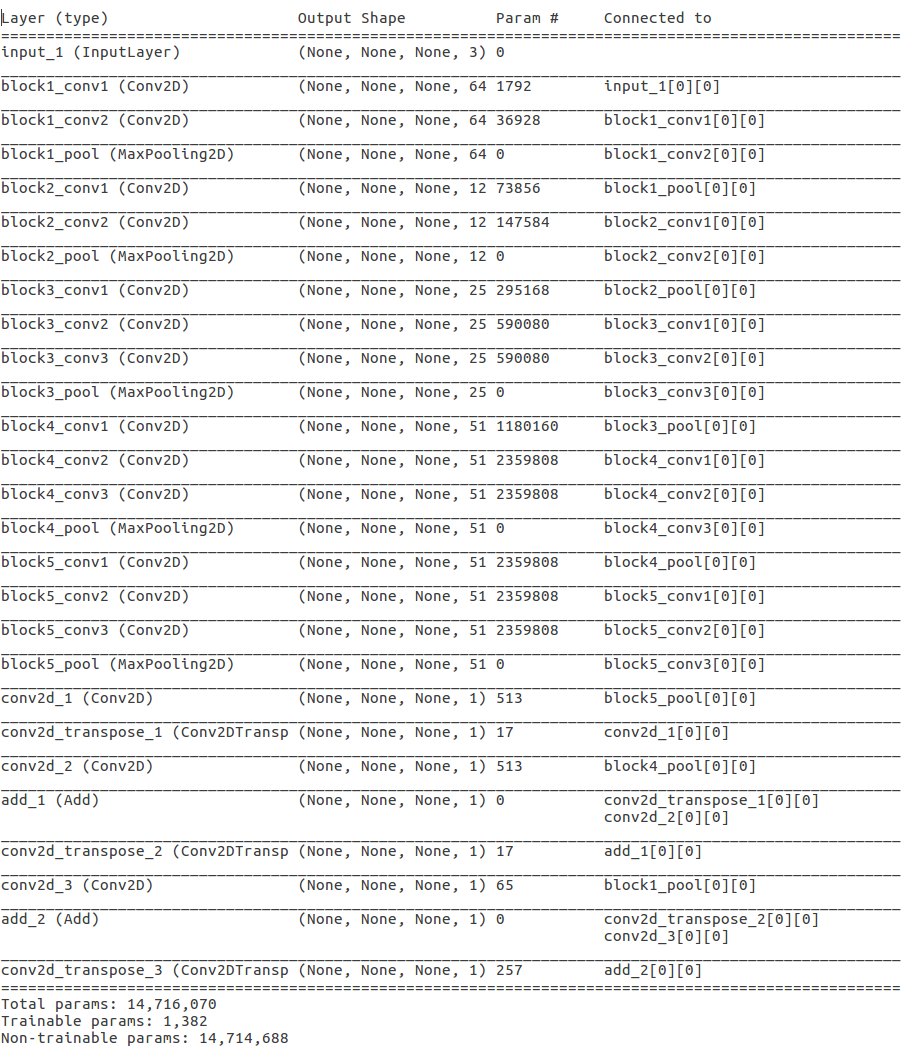
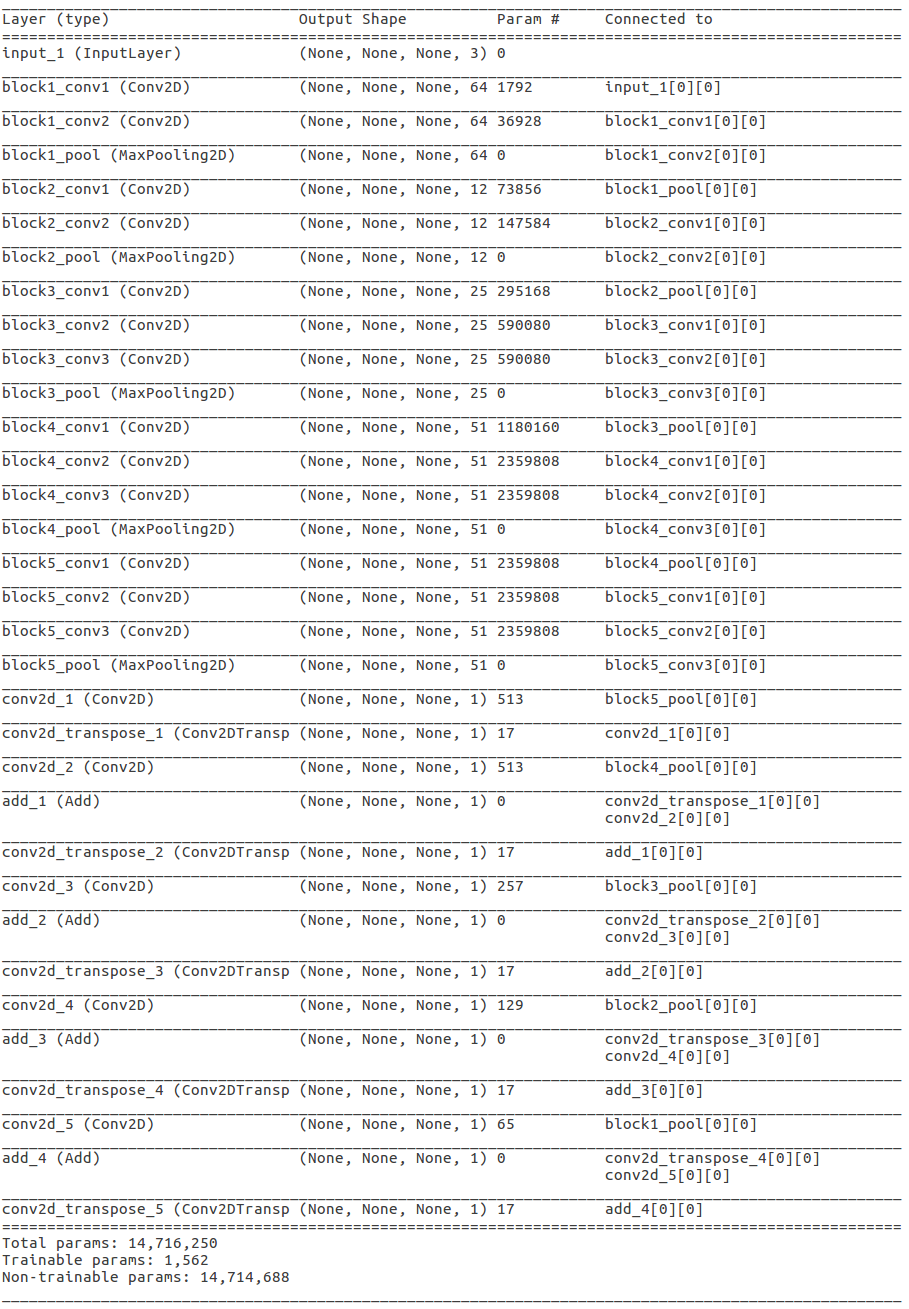
Updated summary image and README

Changed region(s): [[0.0, 0.0, 0.9879, 0.9962]]

diff --git a/src/model.py b/src/model.py
@@ -47,5 +47,7 @@ class Model(object):
             metrics   = [i.iou]
         )
 
+        m.summary()
+
         return m
 

diff --git a/README.md b/README.md
@@ -45,7 +45,11 @@ The idea is to freeze the weights of the pre-trained VGG16 convolutional layers 
 these already are quite good at feature selection across a wide range of features of
 varying scale.  What we do is train the new transpose convolution layers so that we
 can make use of them for showing what regions have the features related to the 
-segmentation we want.
+segmentation we want.  As you can see, the number of trainable parameters is actually
+fairly small.  Moreover, these trainable parameters are all at the top end of the 
+model, so we don't have to backpropogate all that much to train it.  This is one of the 
+reasons the skip-layer approach to segmentation trains quickly.  The real value is in
+being able to take advantage of the pre-trained VGG16 model.
 
 There are a lot of variations on this general idea, as is obvious looking at some
 of the links mentioned above.  One thing that is critical is to use a good metric
